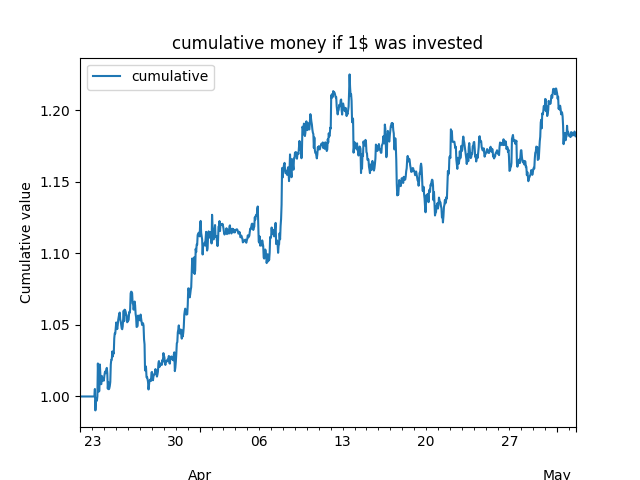
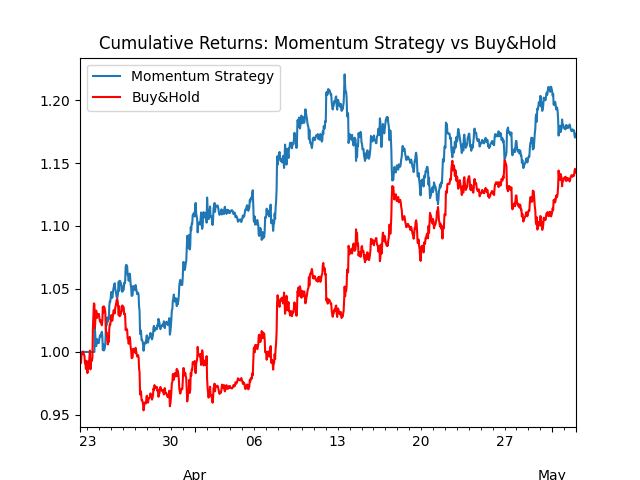
BTCquant

diff --git a/README.md b/README.md
@@ -1,14 +1,22 @@
 # Crypto-momentum-backtester
 
-This is a project about analyzing the moving average of the price of a bitcoin to find patterns in it and try to earn money out of it. I used Binance's public api to get data.
+This is a project about analyzing the moving average of Bitcoin prices to find patterns and backtest a trading strategy. I used Binance's public API to get the data.
 
-I compared between the moving average of the past 30 hour's BTC closing price and if the moving average of it was higher than the moving average of the past 10 hour's BTC closing price, I made a 'signal' to buy. Did the opposite for chossing when to sell.
+### The Strategy
+The program compares the 30-hour and 10-hour moving averages of BTC closing prices:
+* **Buy:** When the 10-hour moving average is higher than the 30-hour moving average.
+* **Sell:** When the 10-hour moving average falls below the 30-hour moving average.
 
-To run this program, simply run the main.ipynb notebook in order. You would need to install pandas,numpy, and matplotlib from pip.
+### Performance
+After testing on 1,000 hours of data, the program saw an 18.2% gain. In comparison, simply buying and holding BTC over the same period would have only returned 13.6%. 
 
-They can be done with the following commands:
-pip install pandas
-pip install numpy
-pip install matplotlib
+### Future Improvements
+I plan to add a stop-loss mechanism to protect against sudden price drops and experiment with different time intervals to see if the strategy holds up across longer periods.
 
-After applying it to 1000hours it we saw an 18.2% gain. So if I had invested 1 dollar into BTC and have this program sell and buy, it would have performed better than if I had invested and not done anything and wait. As it only rose 13.6% without intervention. 
+### Installation
+You need to install pandas, numpy, and matplotlib via pip:
+```bash
+pip install pandas numpy matplotlib
+```
+### How to use
+To run the program, simply run the main.ipynb notebook in order. It will fetch the data and calculate the returns automatically.
